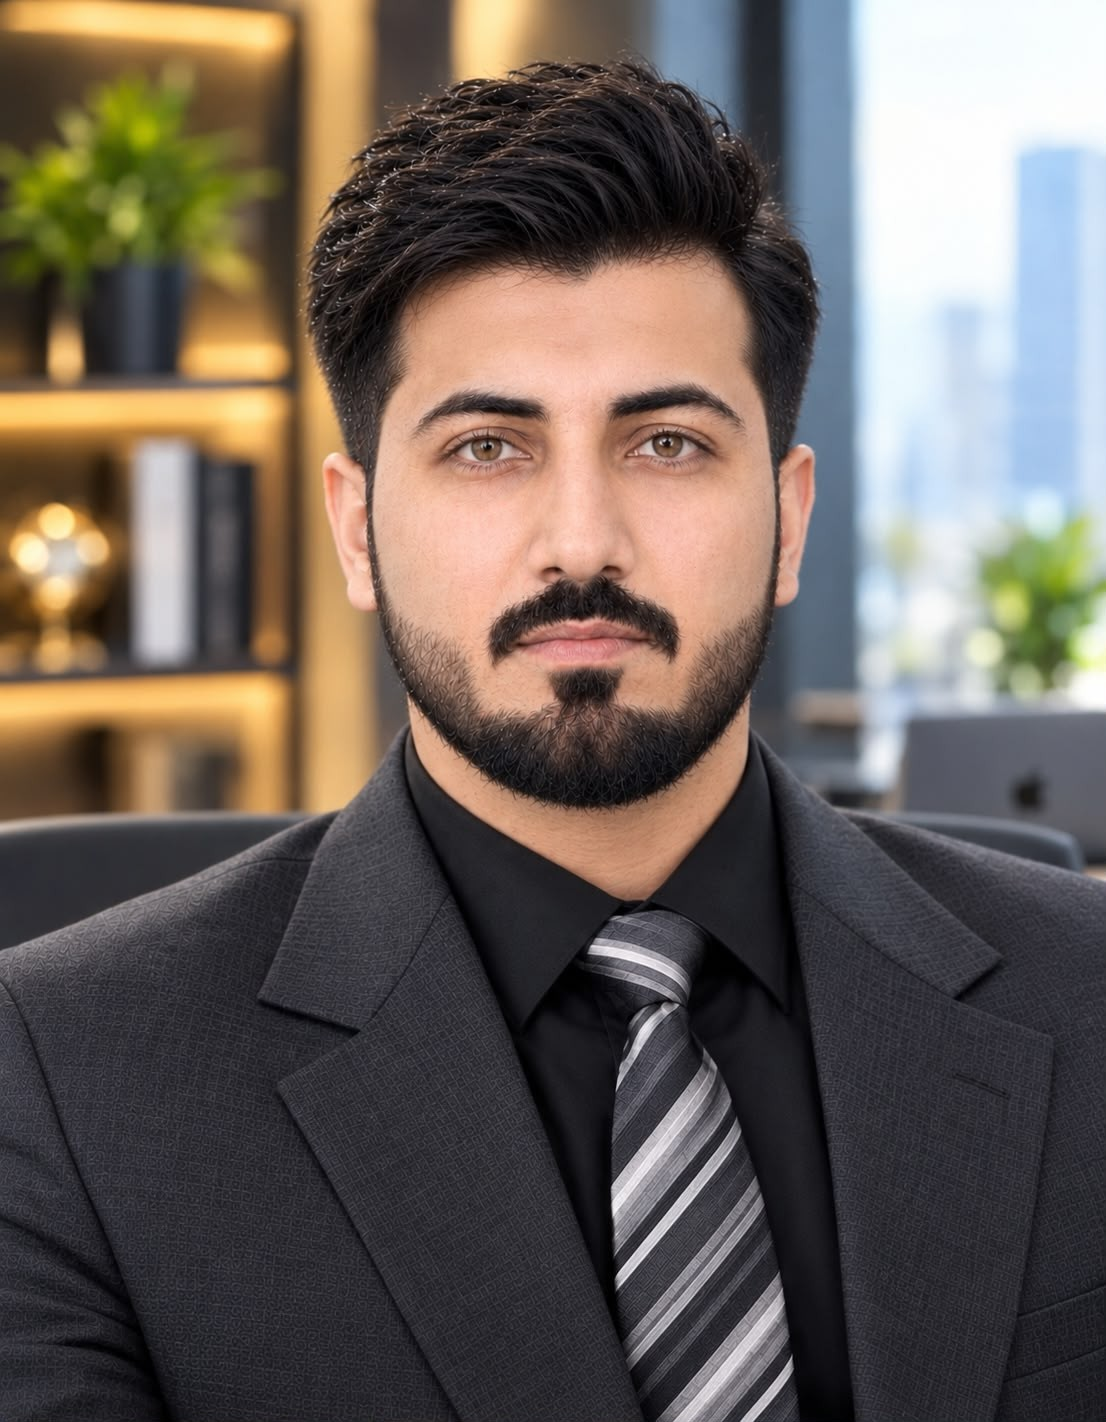
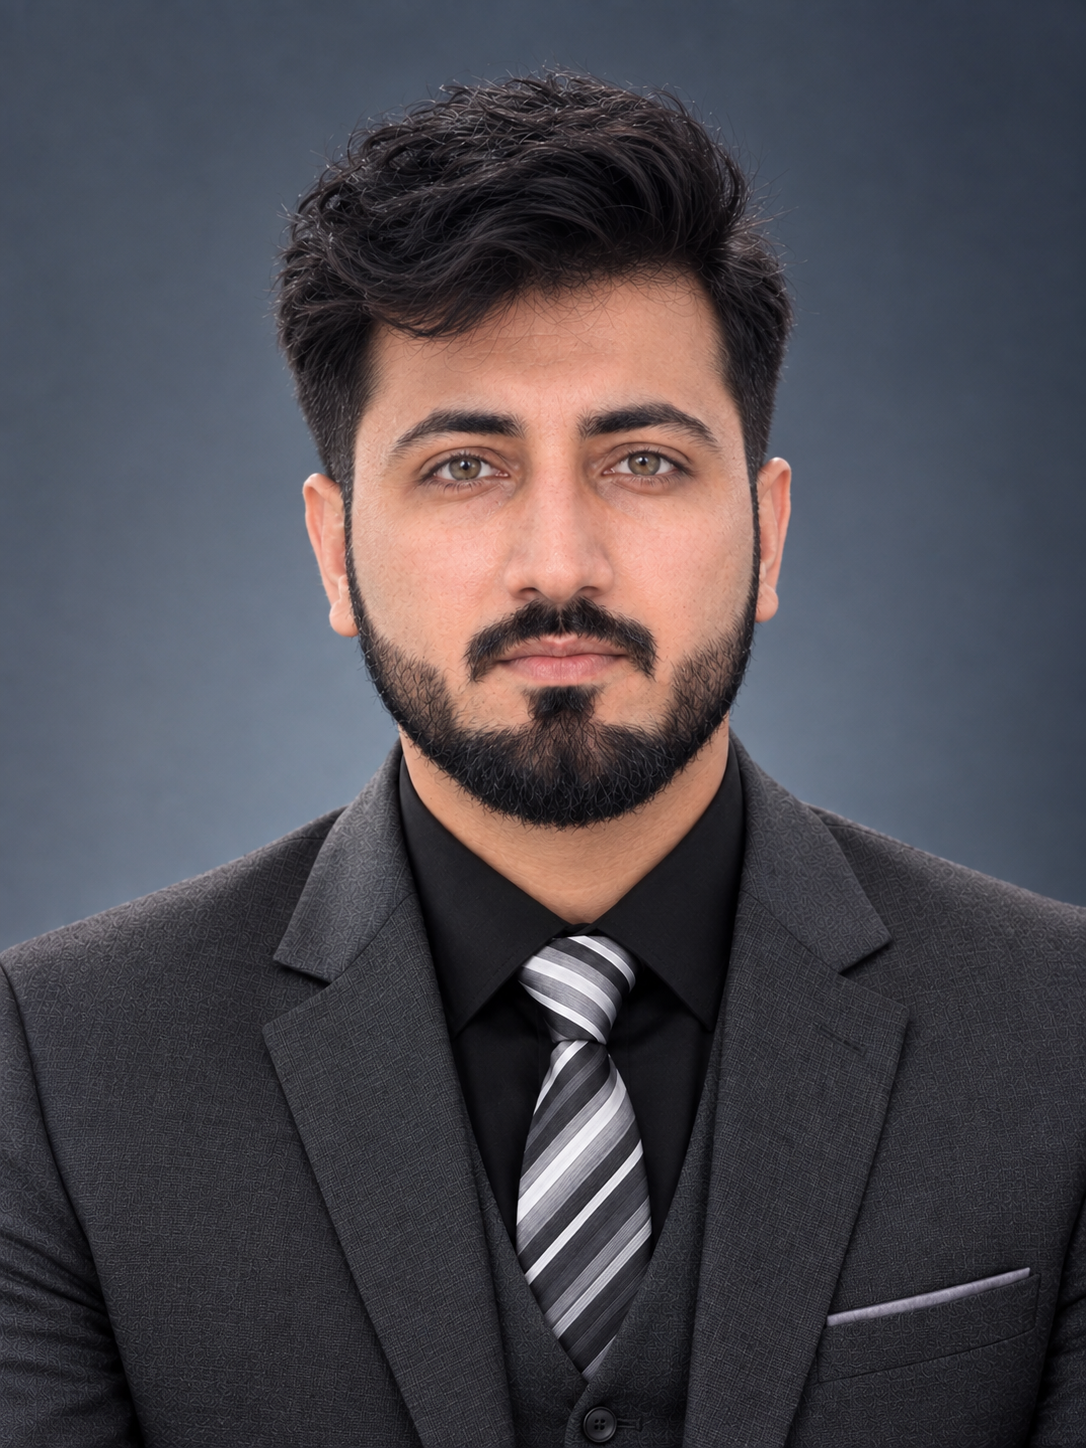
Add files via upload

diff --git a/styles.css b/styles.css
@@ -41,10 +41,17 @@
   --shadow-ambient: 0 40px 90px -32px rgba(0,0,0,.55);
   --shadow-contact: 0 2px 10px rgba(0,0,0,.3);
   --blur-glass: blur(34px) saturate(1.7) contrast(1.05);
-  --blur-section: blur(10px) saturate(1.3) contrast(1.02); /* lighter blur for whole-section glass panels — drop to blur(5px) here for a subtler effect */
+  --blur-section: blur(2px) saturate(1.3) contrast(1.02); /* light blur for whole-section glass panels — shared by hero/.section/recruiter-bar */
 
-  --container: 1120px;
-  --edge: clamp(20px, 5vw, 64px);
+  --container: 1320px;
+  --edge: clamp(20px, 4vw, 56px);
+
+  /* shared outer-panel sizing — every top-level glass panel (hero,
+     .section, recruiter bar) uses this so they're all the exact same
+     width and stay centered, instead of each drifting to its own
+     max-width/margin combo */
+  --panel-max: 1560px;
+  --panel-gutter: clamp(16px, 3.2vw, 40px);
 }
 
 /* ---------------------------------------------------------------
@@ -122,7 +129,8 @@ button{ font-family:inherit; cursor:pointer; }
 .section{
   position:relative; z-index:2;
   padding:112px 0;
-  margin:0 clamp(10px,2.6vw,26px) 28px;
+  width:min(var(--panel-max), calc(100% - 2 * var(--panel-gutter)));
+  margin:0 auto 28px;
   border-radius:var(--radius-lg);
   background:
     linear-gradient(168deg, rgba(255,255,255,.10) 0%, var(--glass-tint) 16%, rgba(255,255,255,.02) 62%);
@@ -236,7 +244,25 @@ button{ font-family:inherit; cursor:pointer; }
 /* ---------------------------------------------------------------
    Hero
 --------------------------------------------------------------- */
-.hero{ padding:168px 0 100px; }
+.hero{
+  position:relative; z-index:2;
+  padding:64px 0 100px;
+  width:min(var(--panel-max), calc(100% - 2 * var(--panel-gutter)));
+  margin:88px auto 28px;
+  border-radius:var(--radius-lg);
+  background:var(--glass-surface, linear-gradient(168deg, rgba(255,255,255,.10) 0%, var(--glass-tint) 16%, rgba(255,255,255,.02) 62%));
+  border:1px solid var(--glass-border);
+  border-top-color:var(--glass-border-bright);
+  backdrop-filter:var(--blur-section);
+  -webkit-backdrop-filter:var(--blur-section);
+  box-shadow:
+    var(--shadow-ambient),
+    inset 0 1px 0 rgba(255,255,255,.22),
+    inset 0 -18px 30px -26px rgba(0,0,0,.3);
+  overflow:hidden;
+}
+@media (max-width:900px){ .hero{ margin-top:76px; } }
+@media (max-width:640px){ .hero{ margin-top:70px; margin-bottom:20px; } }
 .hero-grid{
   display:grid; grid-template-columns:1.15fr .85fr; gap:56px; align-items:center;
 }
@@ -1057,9 +1083,22 @@ footer{ padding:40px var(--edge) 60px; position:relative; z-index:2; }
 
 /* --- Recruiter fast-pass bar (sits right under the hero) --- */
 .recruiter-bar{
-  max-width:1180px; margin:-10px auto 64px; padding:14px 22px;
+  width:min(var(--panel-max), calc(100% - 2 * var(--panel-gutter)));
+  margin:-10px auto 64px; padding:14px 22px;
   display:flex; align-items:center; justify-content:space-between; gap:18px;
   flex-wrap:wrap;
+  border-radius:var(--radius-lg);
+  background:
+    linear-gradient(168deg, rgba(255,255,255,.10) 0%, var(--glass-tint) 16%, rgba(255,255,255,.02) 62%);
+  border:1px solid var(--glass-border);
+  border-top-color:var(--glass-border-bright);
+  backdrop-filter:var(--blur-section);
+  -webkit-backdrop-filter:var(--blur-section);
+  box-shadow:
+    var(--shadow-ambient),
+    inset 0 1px 0 rgba(255,255,255,.22),
+    inset 0 -18px 30px -26px rgba(0,0,0,.3);
+  overflow:hidden;
 }
 .recruiter-inner{ display:flex; align-items:center; justify-content:space-between; gap:18px; flex-wrap:wrap; width:100%; padding:0; }
 .recruiter-label{ display:flex; align-items:center; gap:8px; font-family:var(--ff-mono); font-size:12.5px; color:var(--text-dim); white-space:nowrap; }
@@ -2096,7 +2135,7 @@ footer{ padding:40px var(--edge) 60px; position:relative; z-index:2; }
   .nav-brand{ font-size:15px; }
   .mob-drawer.glass-clear{ top:calc(env(safe-area-inset-top, 0px) + 78px); }
 
-  .hero{ padding:112px 0 64px; }
+  .hero{ padding:48px 0 56px; }
   .hero-grid{ gap:36px; }
   /* headline flows as one paragraph — no orphaned "that" */
   .hero h1{ font-size:clamp(32px, 9.4vw, 42px); }
@@ -2118,7 +2157,9 @@ footer{ padding:40px var(--edge) 60px; position:relative; z-index:2; }
 
 /* Recruiter fast-pass: was edge-to-edge on phones while every other
    panel keeps the page gutter — now matches the sections' margins. */
-.recruiter-bar{ width:min(1180px, calc(100% - 2 * clamp(10px, 2.6vw, 26px))); }
+/* recruiter-bar width now comes from the shared --panel-max /
+   --panel-gutter formula set on the base .recruiter-bar rule above,
+   so it always matches the hero and section panels exactly. */
 @media (max-width:640px){
   .recruiter-bar{ padding:16px; margin-bottom:28px; }
   .recruiter-links{ display:grid; grid-template-columns:1fr 1fr; gap:8px; }
@@ -2151,10 +2192,22 @@ footer{ padding:40px var(--edge) 60px; position:relative; z-index:2; }
    buttons. A dense dark glass body keeps it legible everywhere. */
 .nav.glass-clear{
   background:
+    linear-gradient(168deg, rgba(255,255,255,.12) 0%, rgba(255,255,255,.03) 60%),
+    rgba(10,12,14,.22);
+  -webkit-backdrop-filter:blur(14px) saturate(1.3);
+          backdrop-filter:blur(14px) saturate(1.3);
+}
+/* Scrolled state: nav gains a touch more body once content is behind
+   it, so links stay readable over busy parts of the page, while it
+   reads as fully transparent at the top of the hero. Toggled by JS
+   adding/removing .nav--scrolled — falls back to the value above if
+   the class is never added. */
+.nav.glass-clear.nav--scrolled{
+  background:
     linear-gradient(168deg, rgba(255,255,255,.10) 0%, rgba(255,255,255,.02) 60%),
-    rgba(10,12,14,.78);
-  -webkit-backdrop-filter:blur(18px) saturate(1.25);
-          backdrop-filter:blur(18px) saturate(1.25);
+    rgba(10,12,14,.55);
+  -webkit-backdrop-filter:blur(20px) saturate(1.3);
+          backdrop-filter:blur(20px) saturate(1.3);
 }
 
 
@@ -2327,3 +2380,90 @@ footer{ padding:40px var(--edge) 60px; position:relative; z-index:2; }
 .tl-logos--sub{ margin:14px 0 12px; gap:10px; }
 .tl-logos--sub .logo-plate{ --plate-h:56px; border-radius:16px; }
 @media (max-width:560px){ .tl-logos--sub .logo-plate{ --plate-h:50px; } }
+
+/* =================================================================
+   PART 13 — Wide-viewport "ambient rail"
+   On very wide monitors the fixed 1320px container still leaves a
+   dead, empty gutter on both sides. Instead of just stretching the
+   content wider (which thins out the glass cards) or shrinking the
+   side padding further, this fills that margin with a quiet
+   decorative signal — a hairline circuit rail with a few glowing
+   nodes, echoing the .ping/mono-font "systems readout" language the
+   rest of the site already uses. Pure CSS, no markup changed:
+   attached to body::before/::after, fixed, non-interactive, and
+   only switched on once there's genuinely spare width to use.
+================================================================= */
+@media (min-width:1600px){
+  body::before, body::after{
+    content:'';
+    position:fixed; top:8%; bottom:8%; width:1px; z-index:1; pointer-events:none;
+    background:
+      radial-gradient(circle at 50% 14%, rgba(34,211,166,.85) 0 2px, transparent 3px),
+      radial-gradient(circle at 50% 50%, rgba(34,211,166,.85) 0 2px, transparent 3px),
+      radial-gradient(circle at 50% 86%, rgba(34,211,166,.85) 0 2px, transparent 3px),
+      linear-gradient(180deg, transparent 0%, rgba(255,255,255,.16) 12%, rgba(255,255,255,.16) 88%, transparent 100%);
+    opacity:.7;
+    animation:pulse 3.6s ease-in-out infinite;
+  }
+  body::after{ animation-delay:1.2s; }
+  body::before{ left:clamp(24px, calc((100vw - var(--container)) / 4), 96px); }
+  body::after{  right:clamp(24px, calc((100vw - var(--container)) / 4), 96px); }
+}
+@media (prefers-reduced-motion: reduce){
+  body::before, body::after{ animation:none; }
+}
+
+/* =================================================================
+   PART 14 — Side rail: puts the wide left gutter to work
+   On the wide monitors where the gutter is largest, this gives it a
+   job — three quick-contact lenses (reusing real links already in
+   the Contact section) instead of empty space. Same glass-lens
+   material as .nav-toggle/.case-toggle (Part 9), vertically centered,
+   fully hidden below the width where the gutter is too narrow to
+   hold it without crowding the hero/section panels.
+================================================================= */
+.side-rail{
+  position:fixed; left:0; top:50%; z-index:40;
+  transform:translateY(-50%);
+  display:none;
+  flex-direction:column; align-items:center; gap:10px;
+  width:var(--panel-gutter);
+}
+.side-rail-link{
+  --lg-spec:.24; --lg-veil:.26; --lg-core:0;
+  --lg-b:18px; --lg-sat:1.08;
+  --lg-fg:rgba(255,255,255,.90);
+  --lg-edge:var(--lg-edge-rest, inset 1px 1px 0 rgba(255,255,255,.44), inset -1px -1px 0 rgba(16,18,20,.34));
+  --lg-sh:0 1px 1.5px rgba(0,0,0,.34), 0 6px 12px -6px rgba(0,0,0,.5), 0 14px 20px -14px rgba(0,0,0,.45);
+  --lg-bc:rgba(255,255,255,.42) rgba(255,255,255,.16) rgba(255,255,255,.10) rgba(255,255,255,.30);
+
+  display:flex; align-items:center; justify-content:center;
+  width:40px; height:40px; border-radius:50%;
+  border:1px solid transparent; border-color:var(--lg-bc);
+  color:var(--lg-fg); text-decoration:none;
+  font-family:var(--ff-mono); font-size:11px; font-weight:600; letter-spacing:.01em;
+  background:
+    radial-gradient(circle at 31% 23%, rgba(255,255,255,.28), rgba(255,255,255,.05) 30%, transparent 50%),
+    rgba(18,20,22,.30);
+  backdrop-filter:blur(16px) saturate(1.15);
+  -webkit-backdrop-filter:blur(16px) saturate(1.15);
+  box-shadow:var(--lg-sh);
+  transition:transform .3s var(--lg-ease,ease), border-color .3s ease, color .3s ease, box-shadow .3s ease;
+}
+.side-rail-link:hover{
+  transform:translateX(3px) scale(1.06);
+  color:var(--teal);
+  border-color:rgba(34,211,166,.5);
+  box-shadow:0 0 0 3px rgba(34,211,166,.14), 0 10px 20px -10px rgba(0,0,0,.5);
+}
+.side-rail-line{
+  width:1px; height:64px; margin-top:2px;
+  background:linear-gradient(180deg, rgba(255,255,255,.3), transparent);
+}
+
+@media (min-width:1400px){
+  .side-rail{ display:flex; }
+}
+@media (prefers-reduced-motion: reduce){
+  .side-rail-link{ transition:none; }
+}

diff --git a/index.html b/index.html
@@ -31,6 +31,14 @@
 <div class="bg-grain"></div>
 <div class="scroll-progress" id="scrollProgress"></div>
 
+<!-- ============ SIDE RAIL — puts the wide left gutter to work on big screens ============ -->
+<aside class="side-rail" aria-label="Quick contact">
+  <a href="mailto:sajiditeech@gmail.com" class="side-rail-link" aria-label="Email Sajid">@</a>
+  <a href="https://wa.me/97466969598" target="_blank" rel="noopener noreferrer" class="side-rail-link" aria-label="WhatsApp Sajid">WA</a>
+  <a href="https://www.linkedin.com/in/imsajid-mehmood-1b3954333/" target="_blank" rel="noopener noreferrer" class="side-rail-link" aria-label="Sajid on LinkedIn">in</a>
+  <span class="side-rail-line" aria-hidden="true"></span>
+</aside>
+
 <!-- ============ NAV ============ -->
 <nav class="nav glass-clear glass-tight nav-in" id="topNav">
   <a href="#home" class="nav-brand"><span class="ping"></span> Sajid Mehmood</a>
@@ -114,7 +122,7 @@
   </section>
 
   <!-- ============ RECRUITER FAST-PASS ============ -->
-  <section class="recruiter-bar glass-clear glass-tight" id="recruiter" data-reveal="up" aria-label="Recruiter quick access">
+  <section class="recruiter-bar" id="recruiter" data-reveal="up" aria-label="Recruiter quick access">
     <div class="container recruiter-inner">
       <div class="recruiter-label"><span class="ping"></span> Recruiter fast-pass</div>
       <div class="recruiter-links">

diff --git a/script.js b/script.js
@@ -22,6 +22,20 @@ window.addEventListener('scroll', () => {
 }, { passive: true });
 
 /* ---------------------------------------------------------------
+   Transparent nav — gains a touch of body once the page has
+   scrolled past the hero, so links stay legible over busy sections
+   while it reads as fully transparent over the hero itself.
+--------------------------------------------------------------- */
+{
+  const nav = $('#topNav');
+  if (nav) {
+    const setNavState = () => nav.classList.toggle('nav--scrolled', window.scrollY > 60);
+    setNavState();
+    scrollUpdaters.push(setNavState);
+  }
+}
+
+/* ---------------------------------------------------------------
    Specular highlight on every glass panel — tracks the pointer via
    --mx/--my, consumed by the ::before spotlight in styles.css.
    This is the one signature "liquid glass" interaction.
